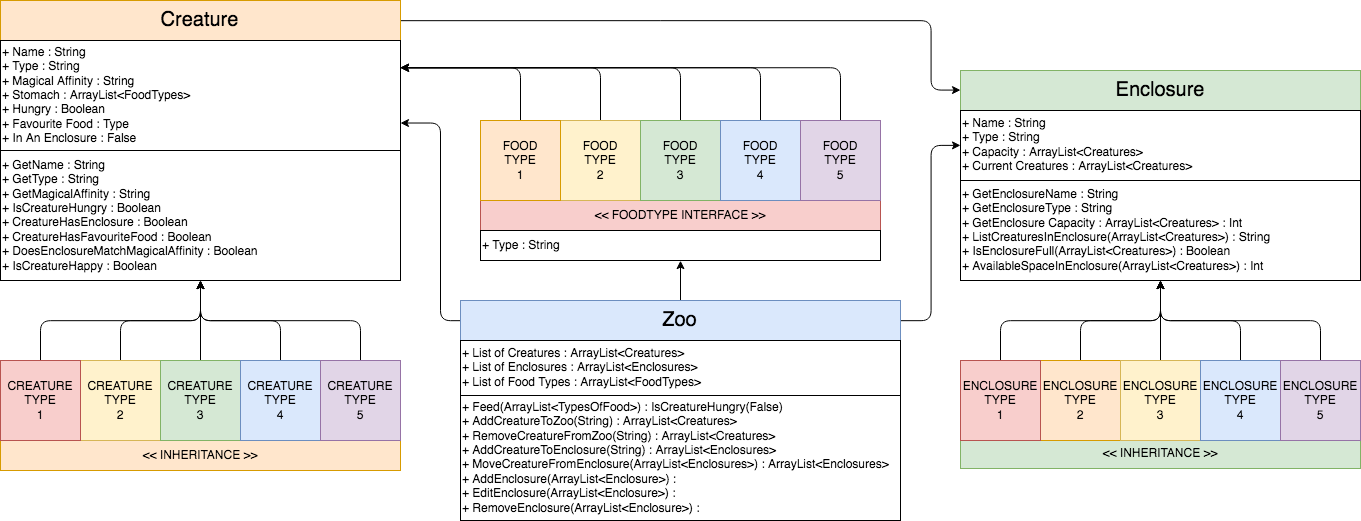
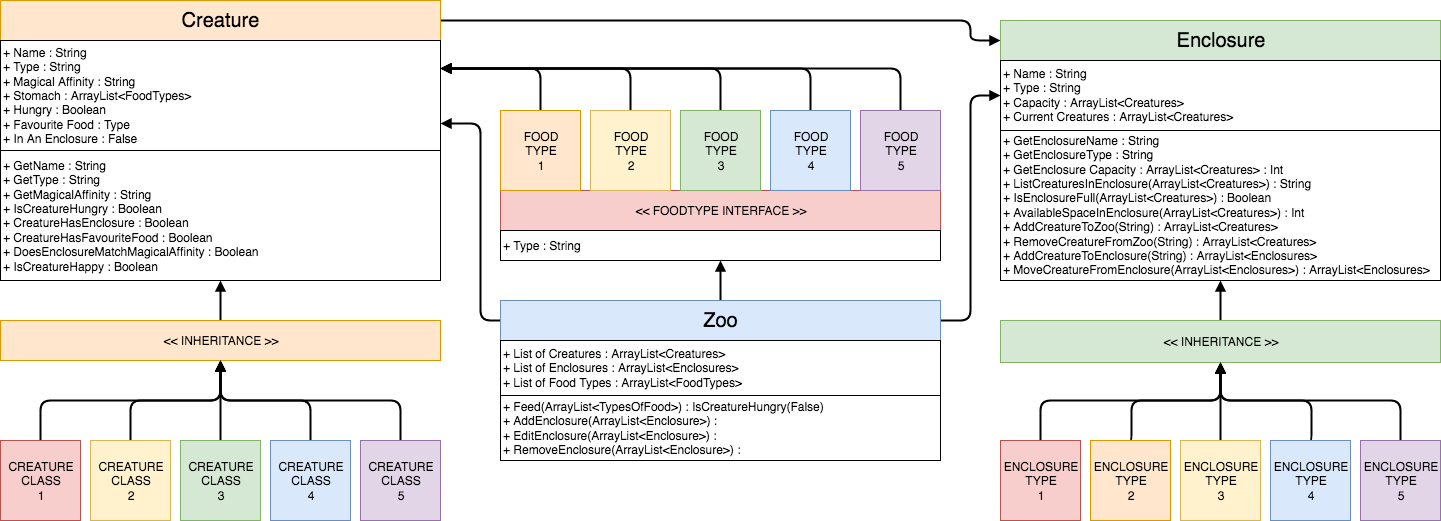
Enclosure.java addTwoCreaturesTest passed.
Also some minor changes to Class Diagram and BriefAnalysis.md

diff --git a/specs/EnclosureTest.java b/specs/EnclosureTest.java
@@ -7,12 +7,14 @@ public class EnclosureTest {
 
   Enclosure enclosure;
   Creature creature;
+  Creature creature2;
   ArrayList<Creature> creatures;
 
   @Before
   public void before() {
     enclosure = new Enclosure( "Volcanic Cave" , "Fire" , 3 );
     creature = new Creature( "Morchock" , "Dragon" , "Fire" );
+    creature2 = new Creature( "Phoosh" , "Phoenix" , "Fire" );
     creatures = new ArrayList<Creature>();
   }
 
@@ -45,6 +47,13 @@ public class EnclosureTest {
   public void addCreatureTest() {
     enclosure.addCreature(creature);
     assertEquals( 1 , enclosure.countCreatures() );
+  }
+
+  @Test
+  public void addTwoCreaturesTest() {
+    enclosure.addCreature(creature);
+    enclosure.addCreature(creature2);
+    assertEquals( 2 , enclosure.countCreatures() );
   }
 
   @Test

diff --git a/Planning/BriefAnalysis.md b/Planning/BriefAnalysis.md
@@ -5,18 +5,18 @@ MoS-CoW method : MUST have, SHOULD have, COULD have, WONT have but would like.
 ## MUST have.
 ### Minimum Viable Product Requirements:
 
-* ~~Zoo has creatures.~~
-* ~~Zoo can count creatures.~~
-* ~~Zoo can feed creatures.~~
-* ~~Zoo can add creatures.~~
-* ~~Zoo can remove creatures.~~
-* Zoo can check if enclosure is full.
-* Zoo can add creatures to an enclosure.
-* Zoo can remove creatures from an enclosure.
-* Zoo can move creatures to a different enclosure.
-* ~~Zoo can add enclosures.~~
-* ~~Zoo can count enclosures.~~
-* ~~Zoo can remove enclosures.~~
+* ~~A Zoo can add enclosures.~~
+* ~~A Zoo can feed a creature.~~
+* ~~A Zoo can count enclosures.~~
+* ~~A Zoo can remove enclosures.~~
+* ~~Enclosures can add creatures.~~
+* ~~Enclosures can hold creatures.~~
+* ~~Enclosures can remove creatures.~~
+* ~~Enclosures can count the creatures it contains.~~
+* Enclosures can add creatures.
+* Enclosures can check if it is full.
+* Enclosures can remove creatures.
+* Enclosures can transfer creatures to a different enclosure.
 
 ## SHOULD have.
 
